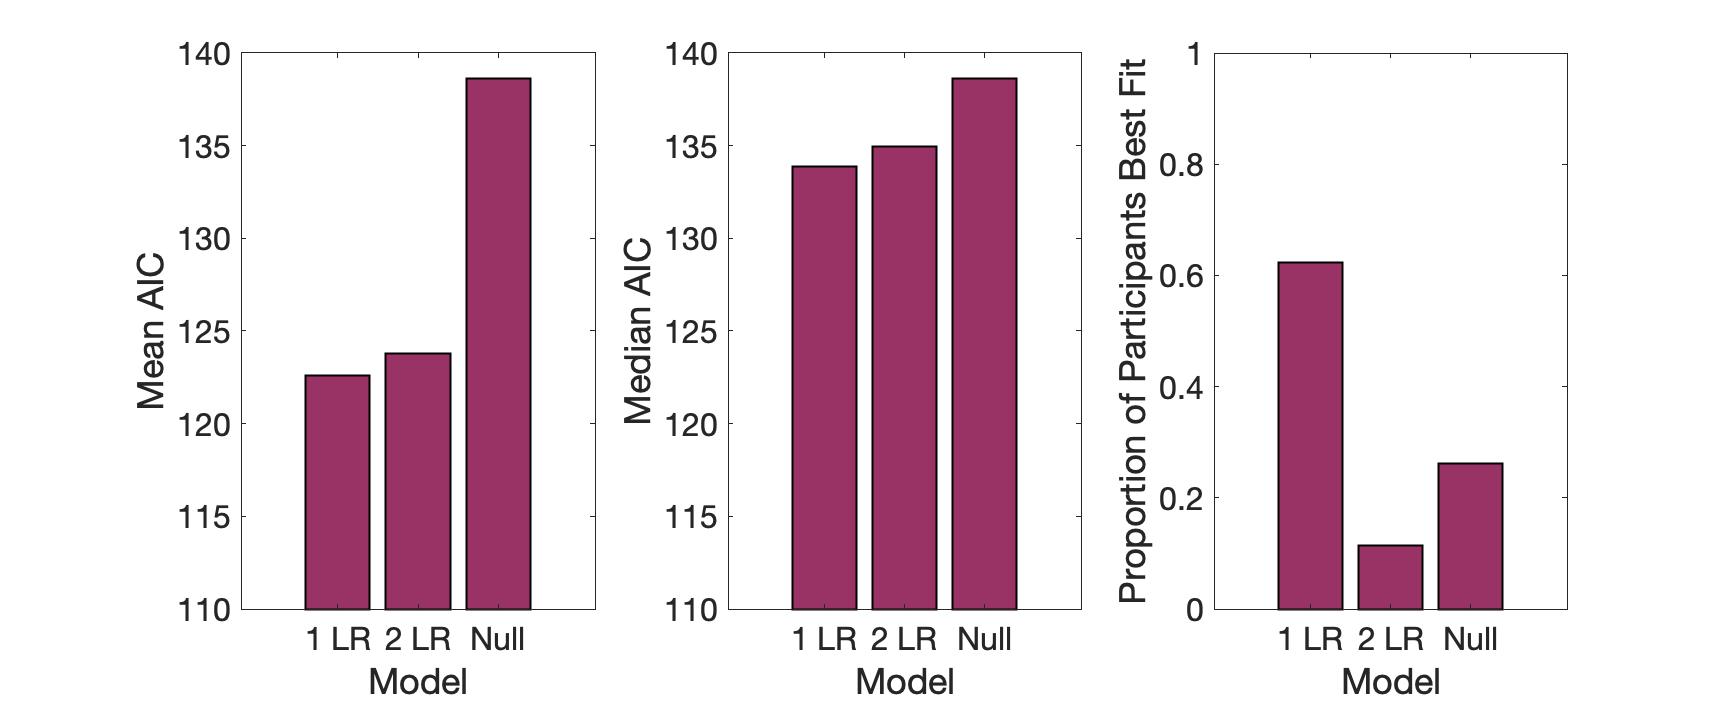
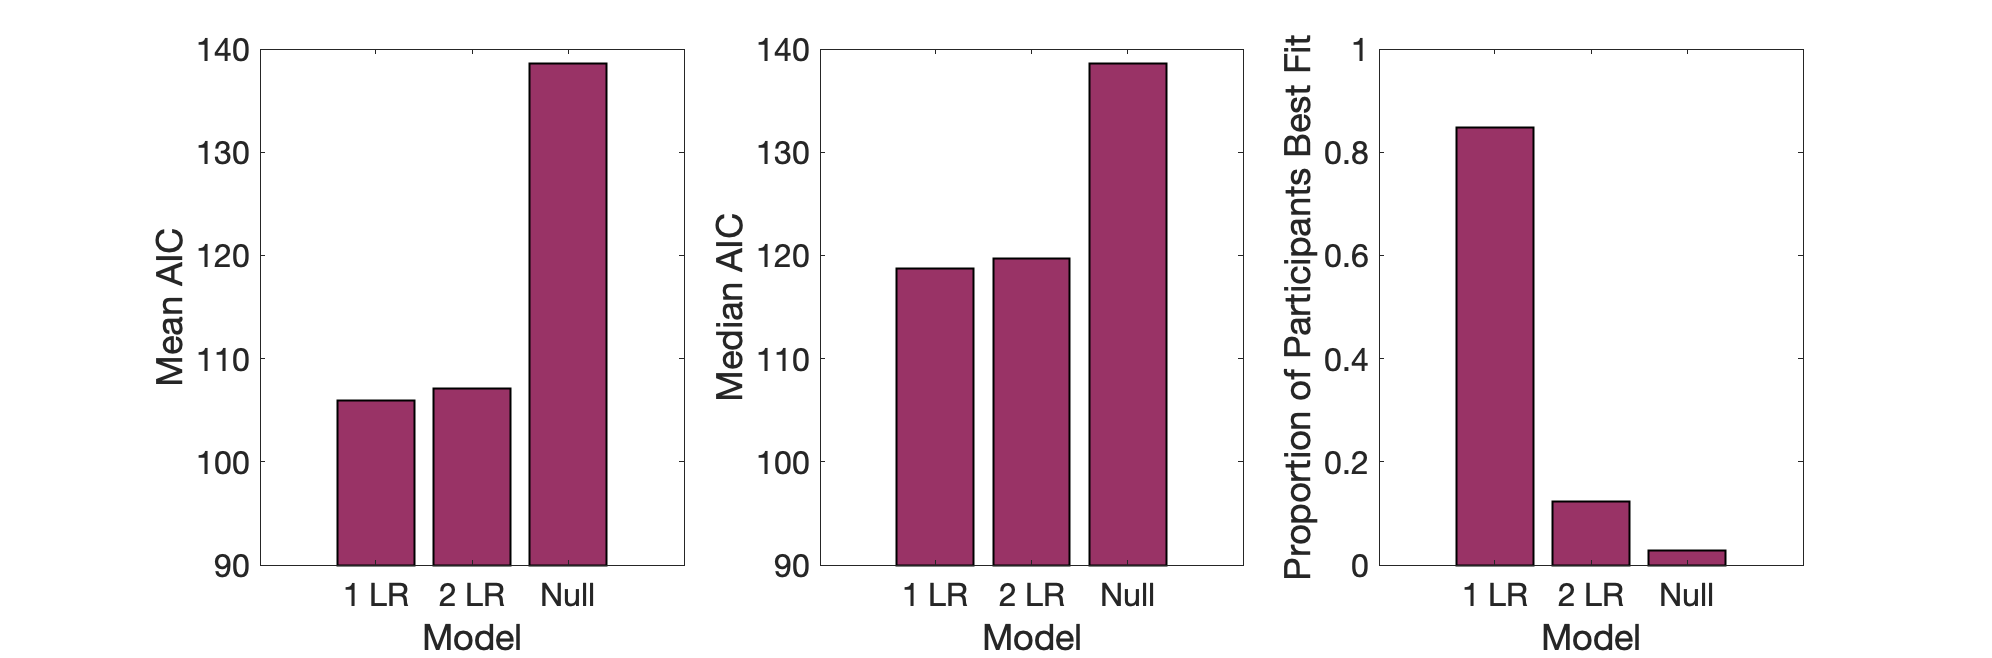
model recoverability

diff --git a/SectionD/model_recovery/simulate_and_recover.m b/SectionD/model_recovery/simulate_and_recover.m
@@ -22,13 +22,13 @@ cfg_sim.p         = 0.8; % 80 20
 cfg_sim.nblck     = 1; % assuming 1 block 
 cfg_sim.ntrl      = 20; % assume we have 2 blocks of 60 trials each with 2 reversals within each block (for simplicity in the middle of the block).
 
-heatmap_name = 'model_recoverability_20trials_90rew.png';
+heatmap_name = 'model_recoverability_20.png';
 
 %% PART 1: Simulate  data from all three models 
 % 1 LR data
 for idx = 1:cfg_sim.nsims
     fprintf('Running simulation %d\n',idx)
-    cfg_sim.tau = unifrnd(0.1, 3);
+    cfg_sim.tau = unifrnd(0.1, 1.5);
     cfg_sim.alphapos = unifrnd(0.05, 1); %sample positive learning rate from between .05 and 1
     cfg_sim.alphaneg = unifrnd(0.05, 1);  % neg isn't used in 1 LR model
     sim_out  = simulate_1LR_data(cfg_sim);
@@ -38,7 +38,7 @@ end
 % 2 LR data
 for idx = 1:cfg_sim.nsims
     fprintf('Running simulation %d\n',idx)
-    cfg_sim.tau = unifrnd(0.1, 3);
+    cfg_sim.tau = unifrnd(0.1, 1.5);
     cfg_sim.alphapos = unifrnd(0.4, 0.5); %sample positive learning rate from between .4 and .5
     cfg_sim.alphaneg = unifrnd(0.05, .1);  %sample negative learning rate from between .05 and .1
     sim_out  = simulate_2LR_data(cfg_sim);
@@ -48,7 +48,7 @@ end
 % null data
 for idx = 1:cfg_sim.nsims
     fprintf('Running simulation %d\n',idx)
-    cfg_sim.tau = unifrnd(0.1, 3);
+    cfg_sim.tau = unifrnd(0.1, 1.5);
     cfg_sim.alphapos = unifrnd(0.05, 1); %sample positive learning rate from between .05 and 1
     cfg_sim.alphaneg = unifrnd(0.05, 1);  %sample negative learning rate from between .05 and 1
     sim_out  = simulate_null_data(cfg_sim);

diff --git a/SectionD/model_recovery/make_plots.m b/SectionD/model_recovery/make_plots.m
@@ -38,7 +38,7 @@ subplot(1,3,1);
 b = bar(mean_AICs, 'FaceColor', [153,51,102]/255, 'EdgeColor', 'black', 'LineWidth', 1);
 set(gca, 'xticklabel',{'1 LR', '2 LR', 'Null'});
 set(gca,'FontName','Helvetica','FontSize',16);
-ylim([110 140])
+ylim([90 140])
 xlabel('Model','FontSize',18);
 ylabel('Mean AIC', 'FontSize', 18);
 
@@ -46,7 +46,7 @@ subplot(1,3,2);
 b = bar(med_AICs, 'FaceColor', [153,51,102]/255, 'EdgeColor','black', 'LineWidth', 1);
 set(gca, 'xticklabel',{'1 LR', '2 LR', 'Null'});
 set(gca,'FontName','Helvetica','FontSize',16);
-ylim([110 140])
+ylim([90 140])
 xlabel('Model','FontSize',18);
 ylabel('Median AIC', 'FontSize', 18);
 
